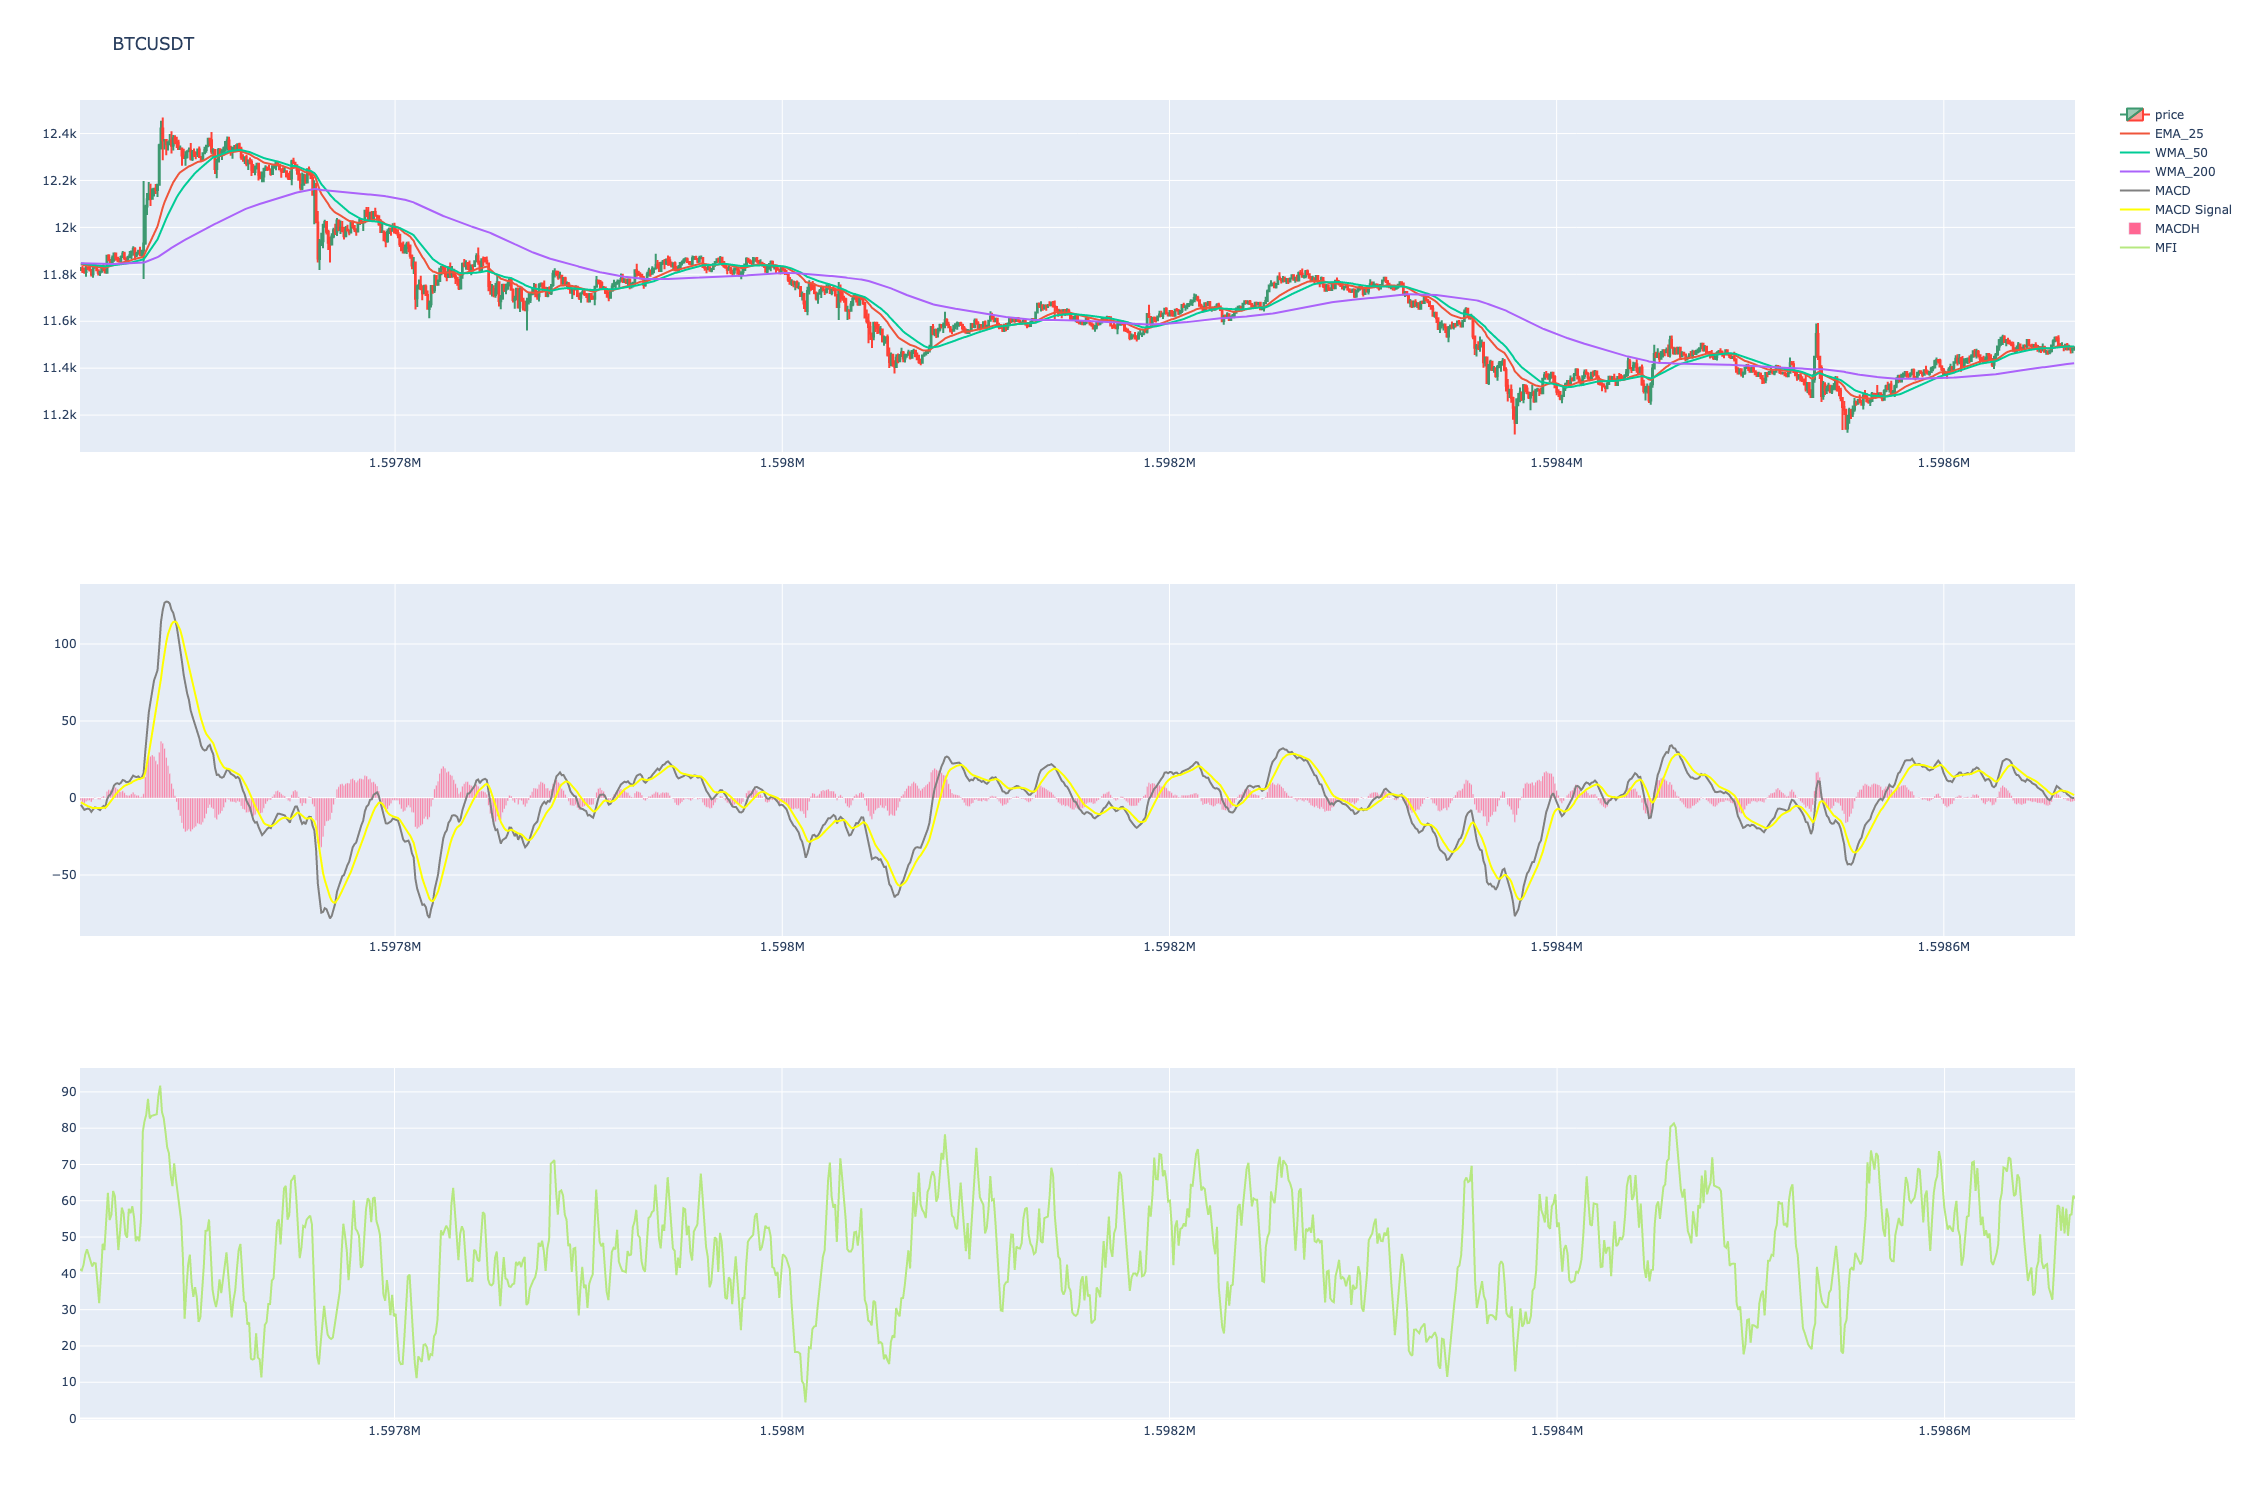
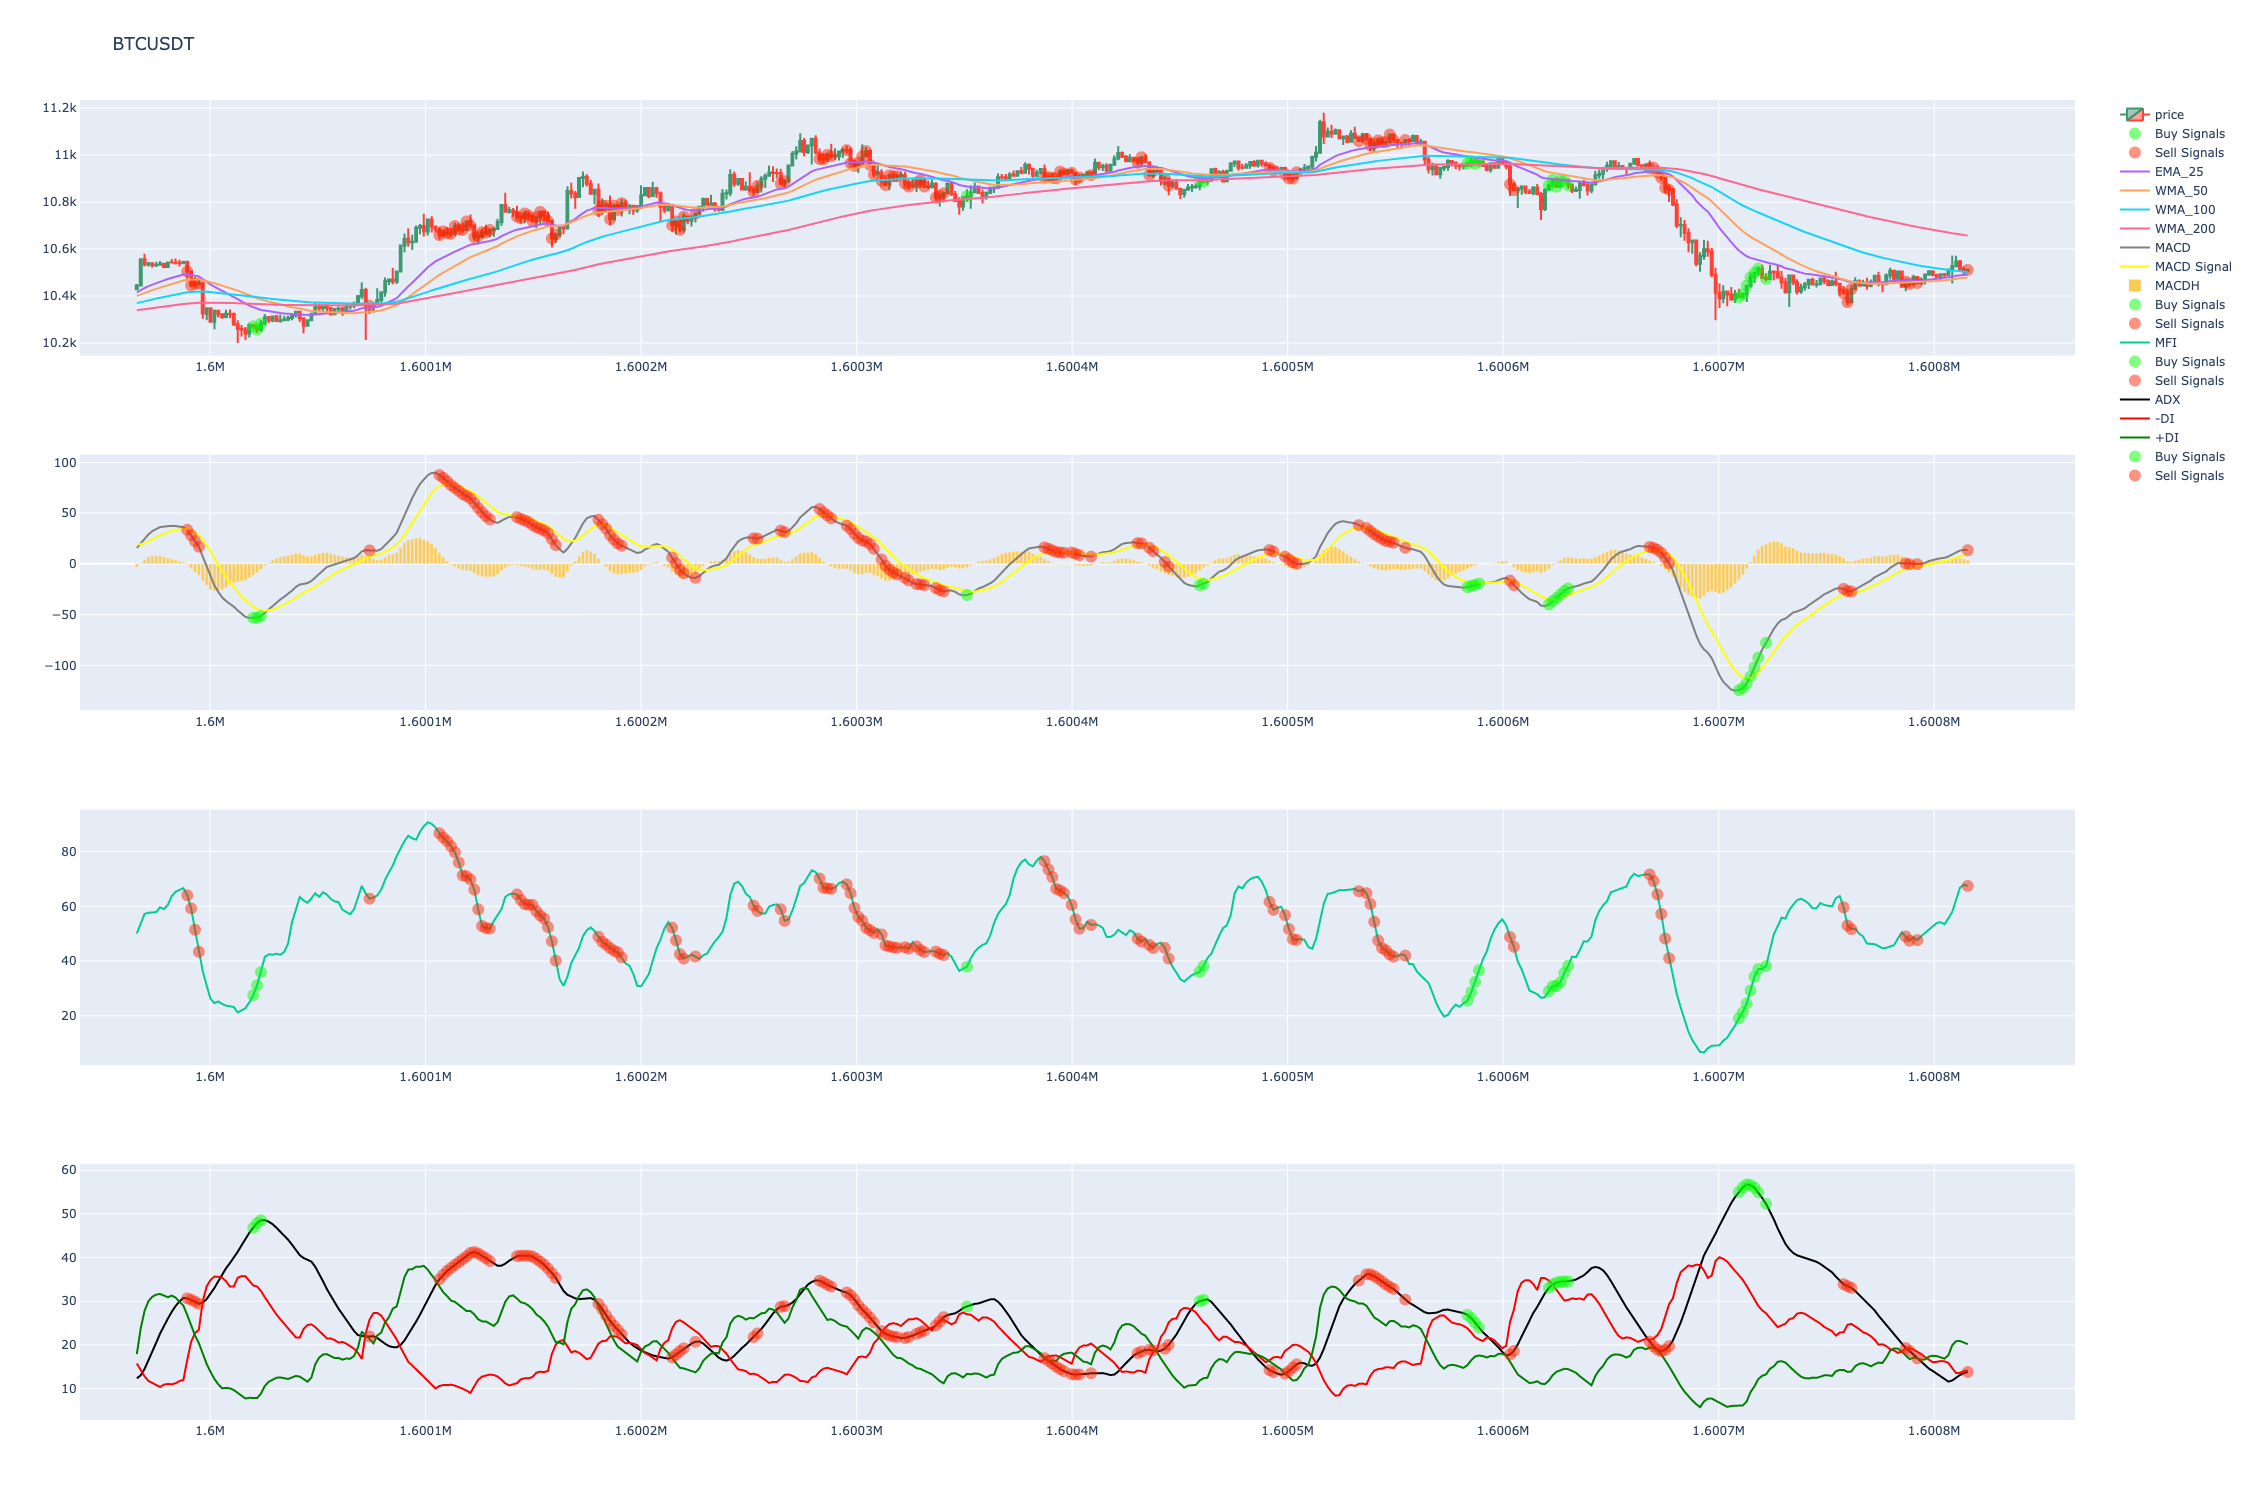
added colored long/short marks
~ updated strategy
+ added attributes for long/short indicator/date

diff --git a/gen_charts.py b/gen_charts.py
@@ -32,6 +32,38 @@ class Chart:
             col=1
         )
 
+        date_long = [self.df['date'][i] for i in self.long_index]
+        date_short = [self.df['date'][i] for i in self.short_index]
+
+        close_long_filter = [self.df['close'].tolist()[i] for i in self.long_index]
+        close_short_filter = [self.df['close'].tolist()[i] for i in self.short_index]
+
+        # Long Signals
+        self.figure.append_trace(
+            go.Scatter(
+                x=date_long,
+                y=close_long_filter,
+                name="Buy Signals",
+                marker=dict(color="lime", size=12, opacity=0.5),
+                mode="markers"
+            ),
+            row=1,
+            col=1
+        )
+
+        # Short Signals
+        self.figure.append_trace(
+            go.Scatter(
+                x=date_short,
+                y=close_short_filter,
+                name="Sell Signals",
+                marker=dict(color="rgb(255, 36, 0)", size=12, opacity=0.5),
+                mode="markers"
+            ),
+            row=1,
+            col=1
+        )
+
         ##############################
         #### add indicators below ####
         ##############################
@@ -115,6 +147,35 @@ class Chart:
             col=1
         )
 
+        macd_long_filter = [self.df['macd'].tolist()[i] for i in self.long_index]
+        macd_short_filter = [self.df['macd'].tolist()[i] for i in self.short_index]
+
+        # Long Signals
+        self.figure.append_trace(
+            go.Scatter(
+                x=date_long,
+                y=macd_long_filter,
+                name="Buy Signals",
+                marker=dict(color="lime", size=12, opacity=0.5),
+                mode="markers"
+            ),
+            row=2,
+            col=1
+        )
+
+        # Short Signals
+        self.figure.append_trace(
+            go.Scatter(
+                x=date_short,
+                y=macd_short_filter,
+                name="Sell Signals",
+                marker=dict(color="rgb(255, 36, 0)", size=12, opacity=0.5),
+                mode="markers"
+            ),
+            row=2,
+            col=1
+        )
+
         # Row 3
 
         self.figure.append_trace(
@@ -122,6 +183,35 @@ class Chart:
                 x=self.df['date'],
                 y=self.df['mfi'],
                 name='MFI'
+            ),
+            row=3,
+            col=1
+        )
+
+        mfi_long_filter = [self.df['mfi'].tolist()[i] for i in self.long_index]
+        mfi_short_filter = [self.df['mfi'].tolist()[i] for i in self.short_index]
+
+        # Long Signals
+        self.figure.append_trace(
+            go.Scatter(
+                x=date_long,
+                y=mfi_long_filter,
+                name="Buy Signals",
+                marker=dict(color="lime", size=12, opacity=0.5),
+                mode="markers"
+            ),
+            row=3,
+            col=1
+        )
+
+        # Short Signals
+        self.figure.append_trace(
+            go.Scatter(
+                x=date_short,
+                y=mfi_short_filter,
+                name="Sell Signals",
+                marker=dict(color="rgb(255, 36, 0)", size=12, opacity=0.5),
+                mode="markers"
             ),
             row=3,
             col=1
@@ -165,6 +255,35 @@ class Chart:
             col=1
         )
 
+        adx_long_filter = [self.df['adx'].tolist()[i] for i in self.long_index]
+        adx_short_filter = [self.df['adx'].tolist()[i] for i in self.short_index]
+
+        # Long Signals
+        self.figure.append_trace(
+            go.Scatter(
+                x=date_long,
+                y=adx_long_filter,
+                name="Buy Signals",
+                marker=dict(color="lime", size=12, opacity=0.5),
+                mode="markers"
+            ),
+            row=4,
+            col=1
+        )
+
+        # Short Signals
+        self.figure.append_trace(
+            go.Scatter(
+                x=date_short,
+                y=adx_short_filter,
+                name="Sell Signals",
+                marker=dict(color="rgb(255, 36, 0)", size=12, opacity=0.5),
+                mode="markers"
+            ),
+            row=4,
+            col=1
+        )
+
         ##############################
         #### add indicators above ####
         ##############################
@@ -180,7 +299,7 @@ class Chart:
 
         if not os.path.exists('charts'):
             os.makedirs('charts')
-        self.figure.write_html('charts/{}.html'.format(self.name))
+        self.figure.write_html(f'charts/{self.name}.html')
         print(f'generated chart for {name}')
 
 

diff --git a/strategy.py b/strategy.py
@@ -8,16 +8,17 @@ is always the index for the respective buy/sell signal
 
 def go_long(df):
     long_index = []
-    for i in range(len(df)):
-        if df['ema_25'][i] > df['wma_50'][i] > df['wma_200'][i]:
-            if df['mfi'][i] < 40:
+    for i in range(1, len(df)):
+        if df['macd'][i - 1] < df['macd'][i] < 0:
+            if df['mfi'][i - 1] < df['mfi'][i] < 40:
                 long_index.append(i)
     return long_index
 
 
 def go_short(df):
     short_index = []
-    for i in range(len(df)):
-        if df['ema_25'][i] < df['wma_50'][i]:
-            short_index.append(i)
+    for i in range(1, len(df)):
+        if 40 < df['mfi'][i] < df['mfi'][i - 1]:
+            if df['macd'][i - 1] > df['macd'][i]:
+                short_index.append(i)
     return short_index

diff --git a/README.md b/README.md
@@ -1,6 +1,6 @@
 # StrategyCheck
 
-tool to visualize/check trading strategy so you can use it with your trading bot :]
+simple tool to visualize/check trading strategy so you can use it with your trading bot :]
 
 Currently only for Binance. If you need an account:
 [Register on Binance](https://www.binance.com/en/register?ref=23830900)
@@ -24,6 +24,8 @@ Currently only for Binance. If you need an account:
 - to smooth your values put the desired indicator into EMA, MA, ...
 
 ### saves all data as csv and generates webpage for further examination (plotly):
+- green dots indicate a long signal
+- red dots indicate a short signal
 
 ![alt text](charts/BTCUSDT.png "BTCUSDT example")
 
